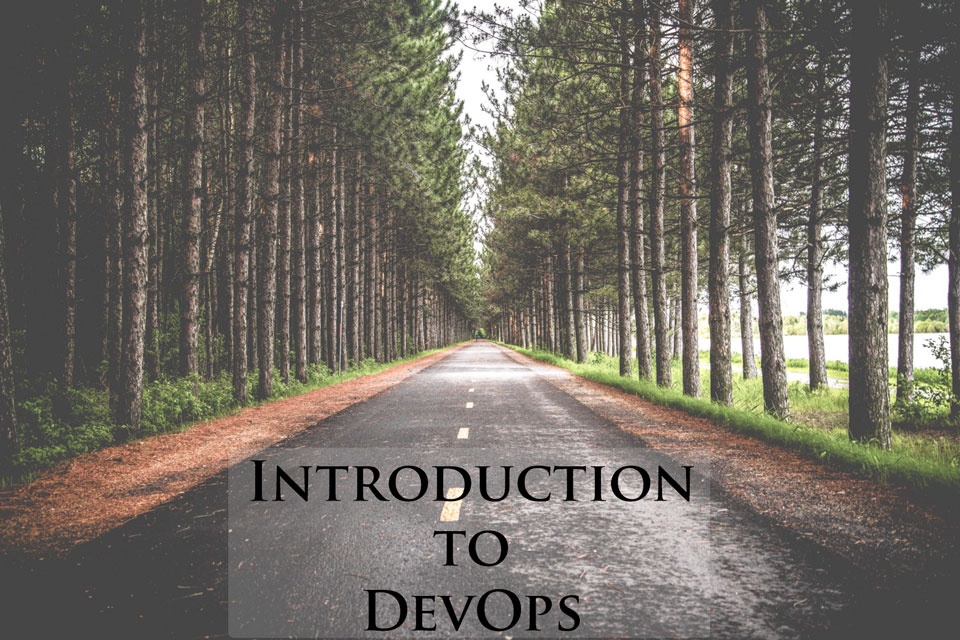
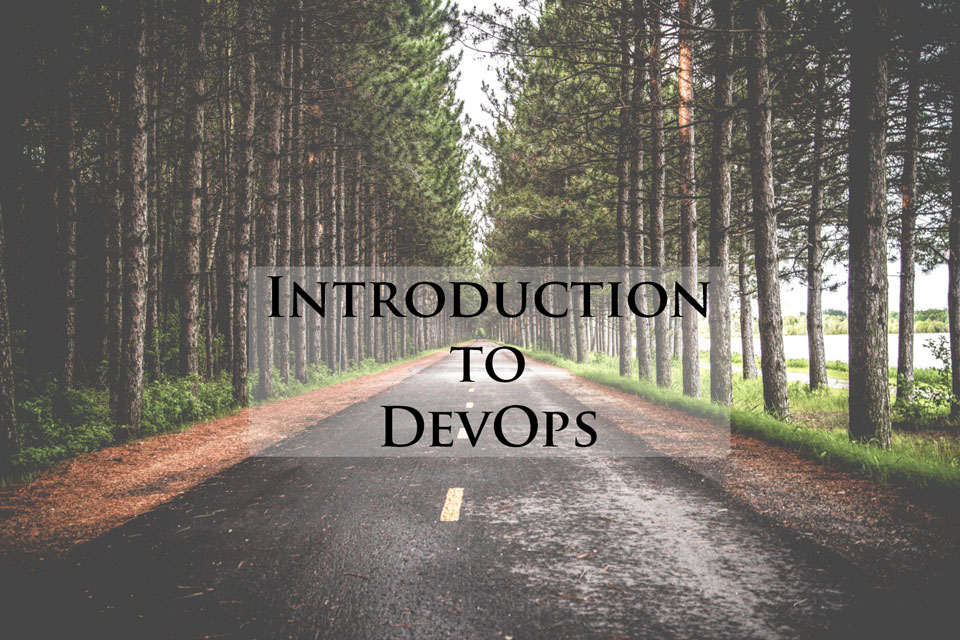
Change title

Changed region(s): [[0.2188, 0.4062, 0.7812, 1.0]]

diff --git a/README.md b/README.md
@@ -61,7 +61,7 @@
 
 Would you like to explore how is the life of DevOps teams and what are some of their specific concerns? You might already be familiar with other environments like networking, but DevOps is a different world and in many aspects they think in a totally different way.
 
-Let's explore some of the challenges DevOps teams have today:
+Let's explore some of the challenges Development and Operations teams have today:
 
 * All software needs to run on a platform, so that it can provide a service. And software lifecycle, from its inception to the moment it runs on a production environment, includes a number of steps with their own challenges. One of them is that many times these steps involve human interaction, which is slow and prone to errors. Being able to *automate* part, or all, of these steps would definitely improve how effective processes are and ultimately the quality of the service provided by that software.
 
